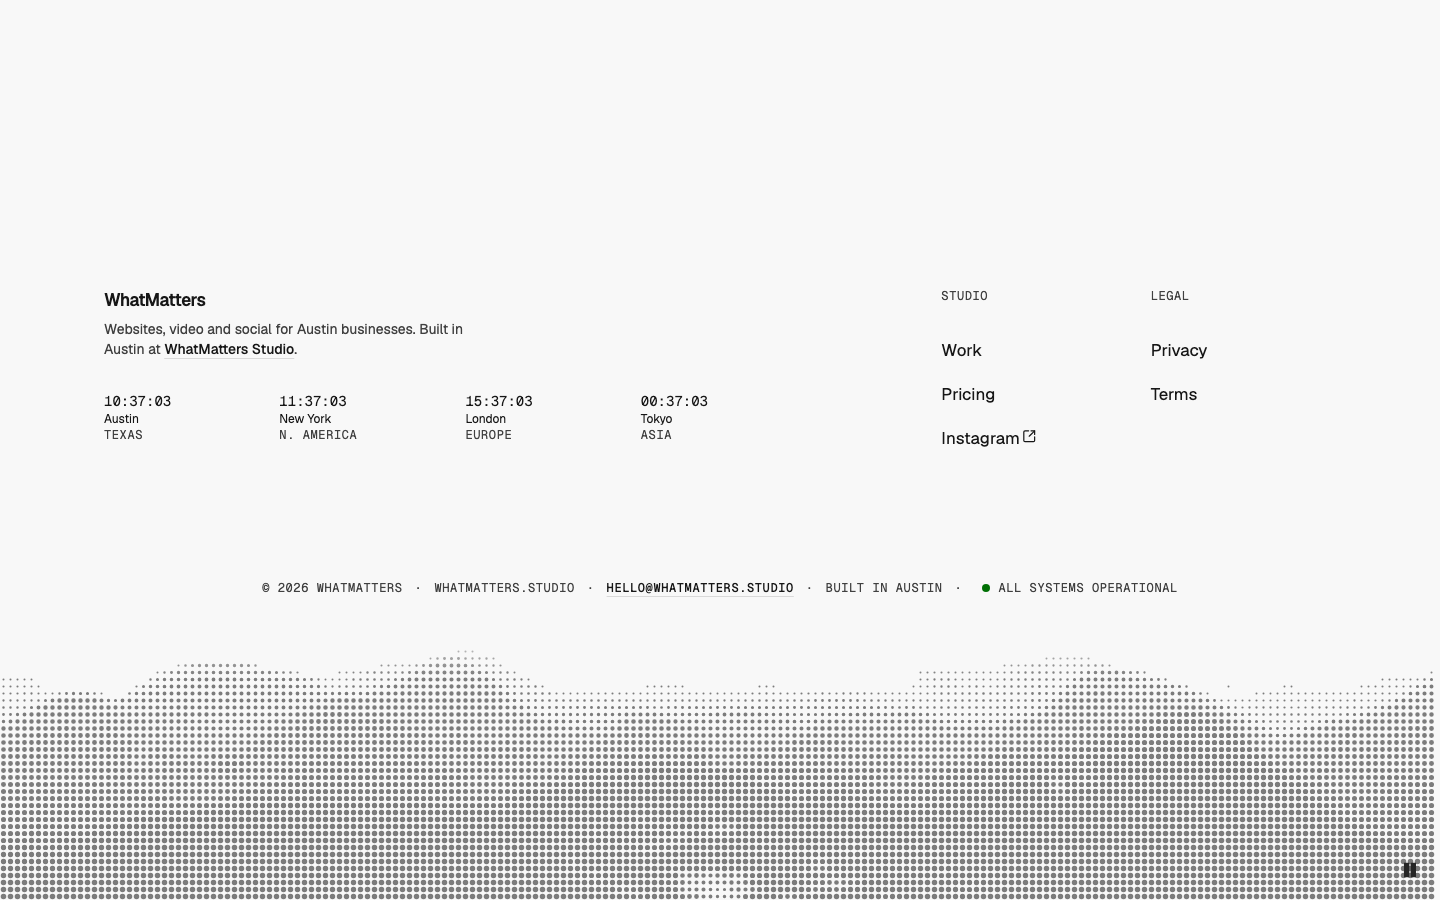
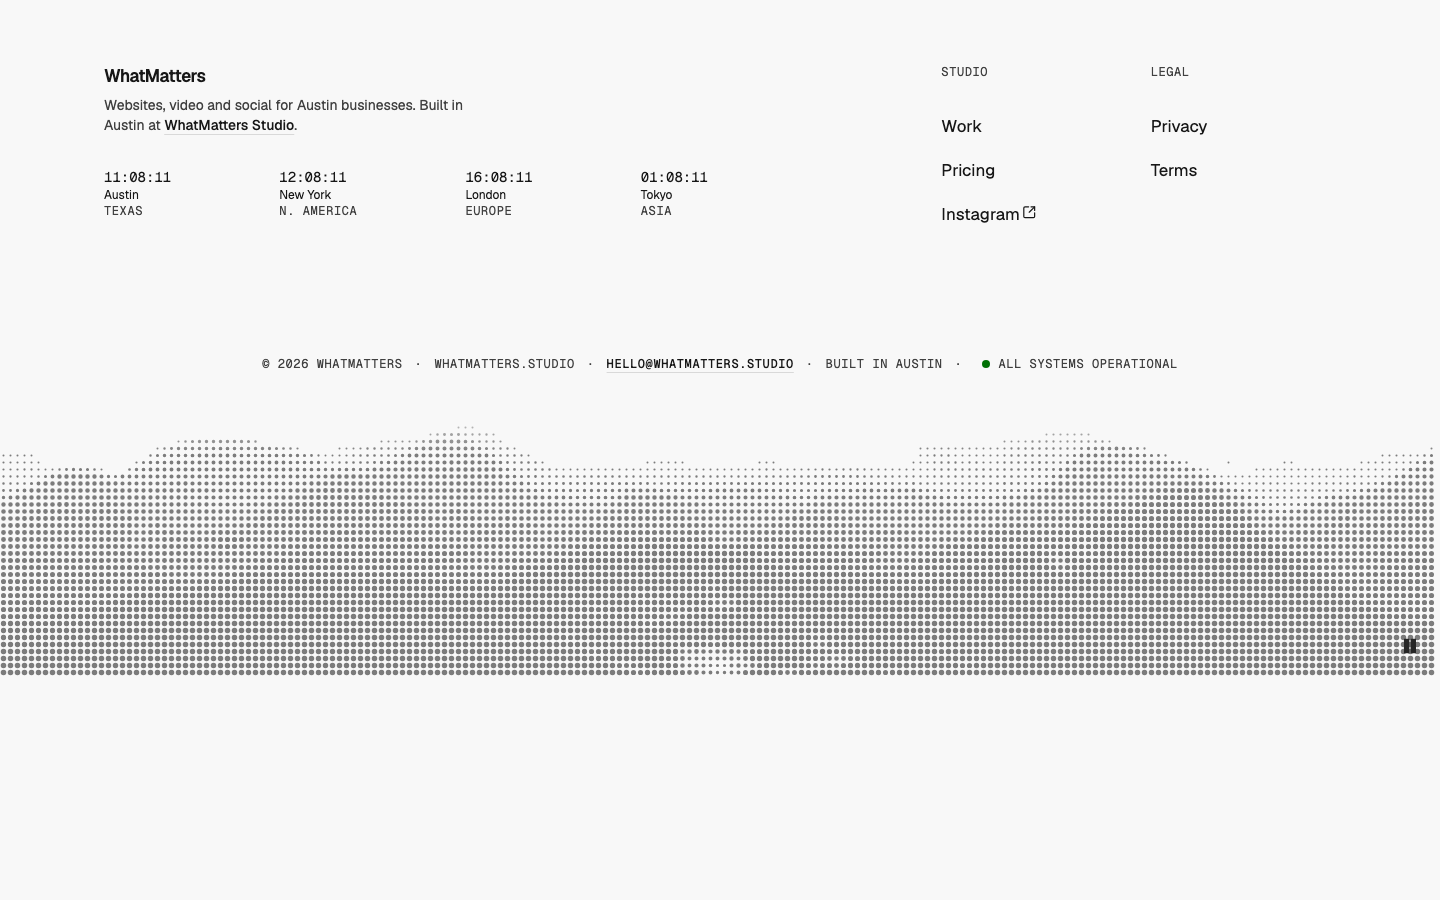
Footer — Landscape example: no full-height wrapper, so the gallery shows only the footer

diff --git a/patterns/footer/landscape/example.tsx b/patterns/footer/landscape/example.tsx
@@ -16,34 +16,32 @@ export const meta = {
 
 export function FooterLandscapeExample(props: Partial<FooterLandscapeProps>) {
   return (
-    <div className="flex min-h-svh flex-col justify-end">
-      <FooterLandscape
-        brand={<span className="type-large font-semibold tracking-tight">WhatMatters</span>}
-        pitch={
-          <>
-            Websites, video and social for Austin businesses. Built in Austin at <TextLink href="#studio">WhatMatters Studio</TextLink>.
-          </>
-        }
-        clocks={
-          <FooterClocks
-            cities={[
-              { city: "Austin", region: "Texas", timeZone: "America/Chicago" },
-              { city: "New York", region: "N. America", timeZone: "America/New_York" },
-              { city: "London", region: "Europe", timeZone: "Europe/London" },
-              { city: "Tokyo", region: "Asia", timeZone: "Asia/Tokyo" },
-            ]}
-          />
-        }
-        links={[
-          { label: "Studio", links: [{ label: "Work", href: "#work" }, { label: "Pricing", href: "#pricing" }, { label: "Instagram", href: "#ig", external: true }] },
-          { label: "Legal", links: [{ label: "Privacy", href: "#privacy" }, { label: "Terms", href: "#terms" }] },
-        ]}
-        facts={["© 2026 WhatMatters", "whatmatters.studio", <TextLink href="mailto:hello@whatmatters.studio">hello@whatmatters.studio</TextLink>, "Built in Austin"]}
-        status="All systems operational"
-        moment={<FooterAsciiBand src={`${base}local/footer-landscape.mp4`} focusY={1} />}
-        {...props}
-      />
-    </div>
+    <FooterLandscape
+      brand={<span className="type-large font-semibold tracking-tight">WhatMatters</span>}
+      pitch={
+        <>
+          Websites, video and social for Austin businesses. Built in Austin at <TextLink href="#studio">WhatMatters Studio</TextLink>.
+        </>
+      }
+      clocks={
+        <FooterClocks
+          cities={[
+            { city: "Austin", region: "Texas", timeZone: "America/Chicago" },
+            { city: "New York", region: "N. America", timeZone: "America/New_York" },
+            { city: "London", region: "Europe", timeZone: "Europe/London" },
+            { city: "Tokyo", region: "Asia", timeZone: "Asia/Tokyo" },
+          ]}
+        />
+      }
+      links={[
+        { label: "Studio", links: [{ label: "Work", href: "#work" }, { label: "Pricing", href: "#pricing" }, { label: "Instagram", href: "#ig", external: true }] },
+        { label: "Legal", links: [{ label: "Privacy", href: "#privacy" }, { label: "Terms", href: "#terms" }] },
+      ]}
+      facts={["© 2026 WhatMatters", "whatmatters.studio", <TextLink href="mailto:hello@whatmatters.studio">hello@whatmatters.studio</TextLink>, "Built in Austin"]}
+      status="All systems operational"
+      moment={<FooterAsciiBand src={`${base}local/footer-landscape.mp4`} focusY={1} />}
+      {...props}
+    />
   );
 }
 
